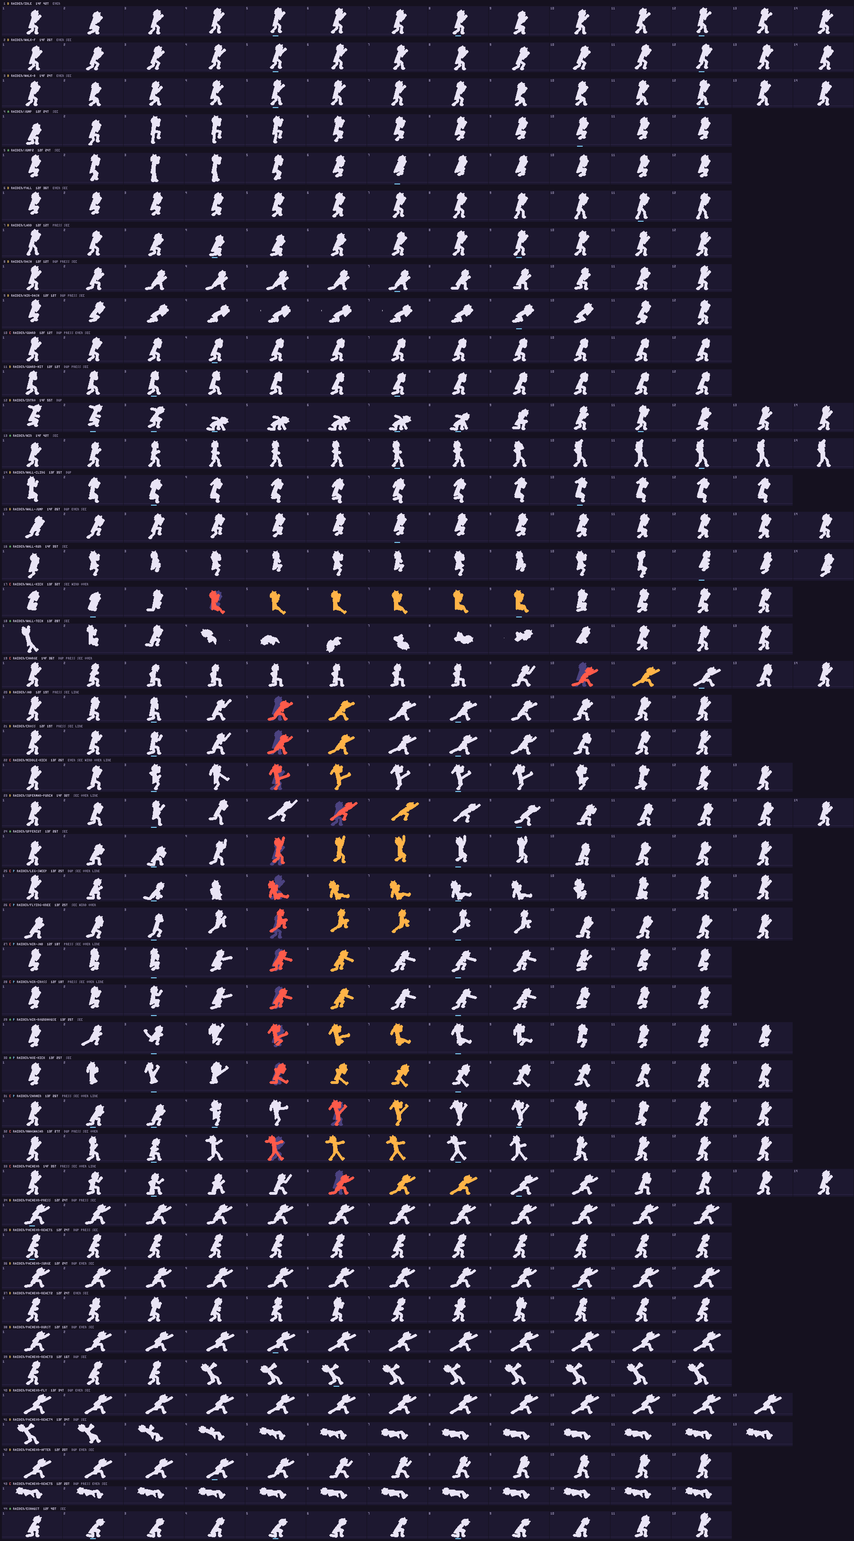
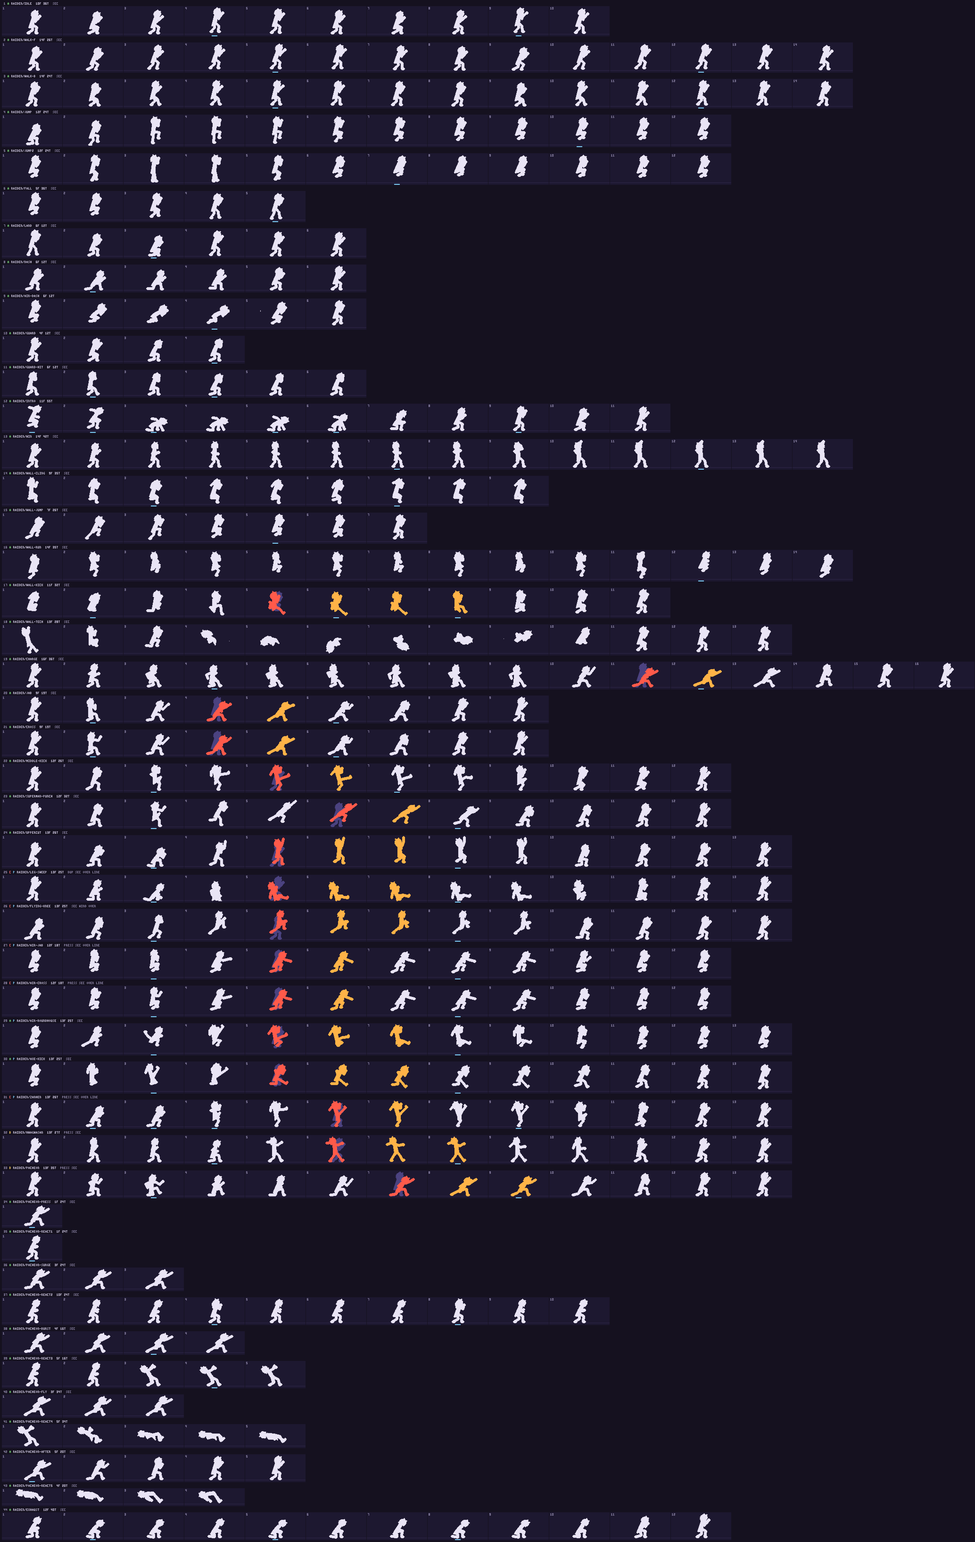
라이덴 2차 리워크 확인 자료: 점검표·실루엣 띠 다시 뽑기, 동작마다 전후 GIF(실제·0.5배속)·끝점 경로·실루엣, 네 캐릭터 비교
점검표: 라이덴 보호 목록 밖 동작은 모두 A, 화과산·파천만 B(프레임 수가 스킬 참고값보다 적다는 신호 하나). 다른 캐릭터 줄은 그대로.

Claude-Session: https://claude.ai/code/session_01Q6VeBSuE7JSjci2iMumFxL

diff --git a/docs/motions/점검표.md b/docs/motions/점검표.md
@@ -3,8 +3,8 @@
 자동 생성: `npm run motioncheck` (`tools/motioncheck.mjs`). 손으로 고치지 않는다. 사람이 바꾼 등급은 도구의 `JUDGED` 표에 이유와 함께 적고, 등급 칸에 "자동 → 판단"으로 나온다.
 실루엣 띠: `previews/motions/silhouette-<캐릭터>.png` (아래 '실루엣 띠 읽는 법').
 
-동작 220개 — A 33 · B 150 · C 37. 보호 목록 26개는 등급만 적고 고치지 않는다(1장).
-신호별 개수: 복사로 길이 채움 82 · 감기 없음 13 · 지나치기 없음 44 · 직선 궤적 25 · 일정한 간격 75 · 몸통 고정 13 · 2차 동작 없음 120 · 실루엣 겹침 3 · 12~14에 눌림 91.
+동작 220개 — A 61 · B 129 · C 30. 보호 목록 26개는 등급만 적고 고치지 않는다(1장).
+신호별 개수: 복사로 길이 채움 64 · 감기 없음 11 · 지나치기 없음 38 · 직선 궤적 20 · 일정한 간격 62 · 몸통 고정 13 · 2차 동작 없음 120 · 실루엣 겹침 3 · 12~14에 눌림 80.
 
 ## 읽는 법
 
@@ -38,40 +38,40 @@
 
 | 묶음 | 동작 수 | A | B | C | 보호 |
 | --- | --- | --- | --- | --- | --- |
-| 라이덴 | 44 | 9 | 23 | 12 | 7 |
+| 라이덴 | 44 | 37 | 2 | 5 | 7 |
 | 백은우 | 43 | 6 | 31 | 6 | 3 |
 | 에드워드 | 40 | 2 | 34 | 4 | 7 |
 | 오스카 | 40 | 3 | 32 | 5 | 9 |
 | 공통 맞는 동작 · 기본 스틱맨 · 필살기 상대 반응 | 53 | 13 | 30 | 10 | 0 |
 
 
-## 라이덴 (44개 — A 9 · B 23 · C 12)
+## 라이덴 (44개 — A 37 · B 2 · C 5)
 
 | # | 동작 | 프레임 수 / 총 틱 | 일곱 요소가 든 프레임 번호 | 문제 신호 | 등급 |
 | --- | --- | --- | --- | --- | --- |
-| 1 | `raiden/idle` 라이덴 대기<br>반복 | 14 / 42 | 해당 없음 — 공격 아님 | **일정한 간격**(앞팔꿈치 빠르기 최대/가운데 1.7배) | **B** (1점) |
-| 2 | `raiden/walk_f` 라이덴 앞 걷기<br>반복 | 14 / 26 | 해당 없음 — 공격 아님 | **일정한 간격**(앞팔꿈치 빠르기 최대/가운데 2.1배)<br>**2차 동작 없음**(머리카락 고정, 옷자락 고정) _장식 고정: 캐릭터 공통_ | **B** (1점) |
-| 3 | `raiden/walk_b` 라이덴 뒤 걷기<br>반복 | 14 / 24 | 해당 없음 — 공격 아님 | **일정한 간격**(뒷손 빠르기 최대/가운데 2.1배)<br>**2차 동작 없음**(머리카락 고정, 옷자락 고정) _장식 고정: 캐릭터 공통_ | **B** (1점) |
+| 1 | `raiden/idle` 라이덴 대기<br>반복 | 10 / 36 | 해당 없음 — 공격 아님 | **2차 동작 없음**(머리카락 고정, 옷자락 고정) _장식 고정: 캐릭터 공통_ | **A** (0점) |
+| 2 | `raiden/walk_f` 라이덴 앞 걷기<br>반복 | 14 / 26 | 해당 없음 — 공격 아님 | **2차 동작 없음**(머리카락 고정, 옷자락 고정) _장식 고정: 캐릭터 공통_ | **A** (0점) |
+| 3 | `raiden/walk_b` 라이덴 뒤 걷기<br>반복 | 14 / 24 | 해당 없음 — 공격 아님 | **2차 동작 없음**(머리카락 고정, 옷자락 고정) _장식 고정: 캐릭터 공통_ | **A** (0점) |
 | 4 | `raiden/jump` 라이덴 점프<br>이동·기본 | 12 / 24 | 해당 없음 — 공격 아님 | **2차 동작 없음**(머리카락 고정, 옷자락 고정) _장식 고정: 캐릭터 공통_ | **A** (0점) |
 | 5 | `raiden/jump2` 라이덴 2단 점프<br>이동·기본 | 12 / 24 | 해당 없음 — 공격 아님 | **2차 동작 없음**(머리카락 고정, 옷자락 고정) _장식 고정: 캐릭터 공통_ | **A** (0점) |
-| 6 | `raiden/fall` 라이덴 낙하<br>이동·기본 | 12 / 36 | 해당 없음 — 공격 아님 | **일정한 간격**(뒷무릎 빠르기 최대/가운데 2배)<br>**2차 동작 없음**(머리카락 고정, 옷자락 고정) _장식 고정: 캐릭터 공통_ | **B** (1점) |
-| 7 | `raiden/land` 라이덴 착지<br>이동·기본 | 12 / 12 | 해당 없음 — 공격 아님 | **12~14에 눌림**(12프레임이 모두 1틱)<br>**2차 동작 없음**(머리카락 고정, 옷자락 고정) _장식 고정: 캐릭터 공통_ | **B** (1점) |
-| 8 | `raiden/dash` 라이덴 지상 대시<br>이동·기본 | 12 / 12 | 해당 없음 — 공격 아님 | **복사로 길이 채움**(4=5)<br>**12~14에 눌림**(12프레임이 모두 1틱)<br>**2차 동작 없음**(머리카락 고정, 옷자락 지연 0) _장식 고정: 캐릭터 공통_ | **B** (2점) |
-| 9 | `raiden/air_dash` 라이덴 공중 대시<br>이동·기본 | 12 / 12 | 해당 없음 — 공격 아님 | **복사로 길이 채움**(5=6 6=7)<br>**12~14에 눌림**(12프레임이 모두 1틱)<br>**2차 동작 없음**(머리카락 고정, 옷자락 지연 0) _장식 고정: 캐릭터 공통_ | **B** (2점) |
-| 10 | `raiden/guard` 라이덴 방어<br>이동·기본 | 12 / 12 | 해당 없음 — 공격 아님 | **복사로 길이 채움**(5=6 6=7 7=8 8=9 9=10 10=11)<br>**12~14에 눌림**(키 3개를 12프레임으로 늘림, 12프레임이 모두 1틱)<br>**일정한 간격**(뒷팔꿈치 빠르기 최대/가운데 1.6배)<br>**2차 동작 없음**(머리카락 고정, 옷자락 고정) _장식 고정: 캐릭터 공통_ | **C** (4점) |
-| 11 | `raiden/guard_hit` 라이덴 방어 막힘<br>이동·기본 | 12 / 12 | 해당 없음 — 공격 아님 | **복사로 길이 채움**(8=9 9=10 10=11)<br>**12~14에 눌림**(12프레임이 모두 1틱)<br>**2차 동작 없음**(머리카락 고정, 옷자락 고정) _장식 고정: 캐릭터 공통_ | **B** (2점) |
-| 12 | `raiden/intro` 라이덴 등장<br>연출 | 14 / 55 | 해당 없음 — 공격 아님 | **복사로 길이 채움**(5=6) | **B** (1점) |
+| 6 | `raiden/fall` 라이덴 낙하<br>이동·기본 | 5 / 36 | 해당 없음 — 공격 아님 | **2차 동작 없음**(머리카락 고정, 옷자락 고정) _장식 고정: 캐릭터 공통_ | **A** (0점) |
+| 7 | `raiden/land` 라이덴 착지<br>이동·기본 | 6 / 12 | 해당 없음 — 공격 아님 | **2차 동작 없음**(머리카락 고정, 옷자락 고정) _장식 고정: 캐릭터 공통_ | **A** (0점) |
+| 8 | `raiden/dash` 라이덴 지상 대시<br>이동·기본 | 6 / 12 | 해당 없음 — 공격 아님 | **2차 동작 없음**(머리카락 고정, 옷자락 고정) _장식 고정: 캐릭터 공통_ | **A** (0점) |
+| 9 | `raiden/air_dash` 라이덴 공중 대시<br>이동·기본 | 6 / 12 | 해당 없음 — 공격 아님 | 없음 | **A** (0점) |
+| 10 | `raiden/guard` 라이덴 방어<br>이동·기본 | 4 / 12 | 해당 없음 — 공격 아님 | **2차 동작 없음**(머리카락 고정, 옷자락 고정) _장식 고정: 캐릭터 공통_ | **A** (0점) |
+| 11 | `raiden/guard_hit` 라이덴 방어 막힘<br>이동·기본 | 6 / 12 | 해당 없음 — 공격 아님 | **2차 동작 없음**(머리카락 고정, 옷자락 고정) _장식 고정: 캐릭터 공통_ | **A** (0점) |
+| 12 | `raiden/intro` 라이덴 등장<br>연출 | 11 / 55 | 해당 없음 — 공격 아님 | 없음 | **A** (0점) |
 | 13 | `raiden/win` 라이덴 승리<br>연출 | 14 / 42 | 해당 없음 — 공격 아님 | **2차 동작 없음**(머리카락 고정, 옷자락 고정) _장식 고정: 캐릭터 공통_ | **A** (0점) |
-| 14 | `raiden/wall_cling` 라이덴 벽 붙기<br>이동·기본 | 13 / 35 | 해당 없음 — 공격 아님 | **복사로 길이 채움**(4=5 6=7) | **B** (1점) |
-| 15 | `raiden/wall_jump` 라이덴 벽 점프<br>이동·기본 | 14 / 26 | 해당 없음 — 공격 아님 | **복사로 길이 채움**(12=13)<br>**일정한 간격**(뒷발 빠르기 최대/가운데 1.6배)<br>**2차 동작 없음**(머리카락 고정, 옷자락 고정) _장식 고정: 캐릭터 공통_ | **B** (2점) |
+| 14 | `raiden/wall_cling` 라이덴 벽 붙기<br>이동·기본 | 9 / 35 | 해당 없음 — 공격 아님 | **2차 동작 없음**(머리카락 고정, 옷자락 고정) _장식 고정: 캐릭터 공통_ | **A** (0점) |
+| 15 | `raiden/wall_jump` 라이덴 벽 점프<br>이동·기본 | 7 / 26 | 해당 없음 — 공격 아님 | **2차 동작 없음**(머리카락 고정, 옷자락 고정) _장식 고정: 캐릭터 공통_ | **A** (0점) |
 | 16 | `raiden/wall_run` 라이덴 벽 달리기<br>이동·기본 | 14 / 35 | 해당 없음 — 공격 아님 | **2차 동작 없음**(머리카락 고정, 옷자락 고정) _장식 고정: 캐릭터 공통_ | **A** (0점) |
-| 17 | `raiden/wall_kick` 라이덴 벽 박차기 공격<br>일반 평타 · raiden.wallKick · 끝: 앞발 | 13 / 32 | ①– ②– ③– ④– ⑤4(81° 꺾임, 겹침 52%) ⑥– ⑦10~13 (끝이 첫 자세와 18px) | **2차 동작 없음**(머리카락 고정, 옷자락 지연 0) _장식 고정: 캐릭터 공통_<br>**감기 없음**(1~3번에 뒤로 1.4px (버틴 감기 1.4px))<br>**지나치기 없음**(5번 +0.8px) | **C** (4점) |
+| 17 | `raiden/wall_kick` 라이덴 벽 박차기 공격<br>일반 평타 · raiden.wallKick · 끝: 앞발 | 11 / 32 | ①– ②– ③– ④– ⑤5(4°, 겹침 47%) ⑥6(+3.3/−1.9) ⑦9~11 (끝이 첫 자세와 18px) | **2차 동작 없음**(머리카락 지연 0, 옷자락 지연 0) _장식 고정: 캐릭터 공통_ | **A** (0점) |
 | 18 | `raiden/wall_tech` 라이덴 벽 낙법<br>이동·기본 | 13 / 28 | 해당 없음 — 공격 아님 | **2차 동작 없음**(머리카락 지연 0, 옷자락 지연 0) _장식 고정: 캐릭터 공통_ | **A** (0점) |
-| 19 | `raiden/charge` 라이덴 차지 투전승불<br>차지·스킬 · raiden.charge · 끝: 뒷손 | 14 / 36 | ①8→10(1→14px) ②10(+7), 높이 6 ③– ④– ⑤10(9°, 겹침 18%) ⑥– ⑦12~14 | **복사로 길이 채움**(5=6 6=7 7=8)<br>**12~14에 눌림**(참고 16~30보다 적음)<br>**2차 동작 없음**(머리카락 지연 0, 옷자락 지연 0) _장식 고정: 캐릭터 공통_<br>**지나치기 없음**(11번 +2px) | **C** (4점) |
-| 20 | `raiden/jab` 라이덴 1타 잽<br>빠른 타격 · raiden.atk1 · 끝: 앞손 | 12 / 19 | ①3→5(0→14px) ②3(-3)→5(+7), 높이 6 ③– ④– ⑤5(5°, 겹침 24%) ⑥7(+3/−0) ⑦7~12 | **12~14에 눌림**(참고 6~10보다 많음)<br>**2차 동작 없음**(머리카락 고정, 옷자락 지연 0) _장식 고정: 캐릭터 공통_<br>**직선 궤적**(3~6번 휨 0.8px / 31.1px) | **B** (2점) |
-| 21 | `raiden/cross` 라이덴 2타 크로스<br>빠른 타격 · raiden.atk2 · 끝: 뒷손 | 12 / 19 | ①3→5(0→13px) ②3(-2)→5(+7), 높이 6 ③– ④– ⑤5(9°, 겹침 22%) ⑥7(+4.2/−0) ⑦7~12 | **12~14에 눌림**(참고 6~10보다 많음)<br>**2차 동작 없음**(머리카락 고정, 옷자락 지연 0) _장식 고정: 캐릭터 공통_<br>**직선 궤적**(3~6번 휨 1.7px / 34px) | **B** (2점) |
-| 22 | `raiden/middle_kick` 라이덴 3타 미들킥<br>일반 평타 · raiden.atk3 · 끝: 뒷발 | 13 / 26 | ①– ②5(+5), 높이 3 ③– ④– ⑤5(29° 꺾임, 겹침 35%) ⑥– ⑦7~13 | **일정한 간격**(끝 빠르기 최대/가운데 1.7배)<br>**2차 동작 없음**(머리카락 고정, 옷자락 지연 0) _장식 고정: 캐릭터 공통_<br>**감기 없음**(1~4번에 뒤로 1.3px (버틴 감기 0.4px))<br>**지나치기 없음**(6번 +0.4px)<br>**직선 궤적**(2~6번 휨 3.4px / 47.2px) | **C** (6점) |
-| 23 | `raiden/superman_punch` 라이덴 4타 슈퍼맨 펀치<br>일반 평타 · raiden.atk4 · 끝: 뒷손 | 14 / 32 | ①3→6(-1→18px) ②6(+9), 높이 11 ③– ④3→5 ⑤6(6°, 겹침 15%) ⑥– ⑦8~14 | **2차 동작 없음**(머리카락 지연 0, 옷자락 지연 0) _장식 고정: 캐릭터 공통_<br>**지나치기 없음**(7번 +0.7px)<br>**직선 궤적**(3~7번 휨 1.3px / 43px) | **B** (3점) |
+| 19 | `raiden/charge` 라이덴 차지 투전승불<br>차지·스킬 · raiden.charge · 끝: 뒷손 | 16 / 36 | ①9→11(-5→14px) ②4(-5)→11(+11), 높이 7 ③– ④– ⑤11(9°, 겹침 18%) ⑥12(+5.1/−4.1) ⑦13~16 | **2차 동작 없음**(머리카락 지연 0, 옷자락 지연 0) _장식 고정: 캐릭터 공통_ | **A** (0점) |
+| 20 | `raiden/jab` 라이덴 1타 잽<br>빠른 타격 · raiden.atk1 · 끝: 앞손 | 9 / 19 | ①2→4(-5→14px) ②2(-4)→4(+8), 높이 6 ③– ④– ⑤4(5°, 겹침 24%) ⑥5(+2.9/−4.1) ⑦6~9 | **2차 동작 없음**(머리카락 지연 0, 옷자락 지연 0) _장식 고정: 캐릭터 공통_ | **A** (0점) |
+| 21 | `raiden/cross` 라이덴 2타 크로스<br>빠른 타격 · raiden.atk2 · 끝: 뒷손 | 9 / 19 | ①2→4(-5→13px) ②2(-4)→4(+9), 높이 6 ③– ④– ⑤4(9°, 겹침 22%) ⑥5(+3.2/−5.1) ⑦6~9 | **2차 동작 없음**(머리카락 고정, 옷자락 지연 0) _장식 고정: 캐릭터 공통_ | **A** (0점) |
+| 22 | `raiden/middle_kick` 라이덴 3타 미들킥<br>일반 평타 · raiden.atk3 · 끝: 뒷발 | 12 / 26 | ①– ②5(+6), 높이 3 ③– ④– ⑤5(37° 꺾임, 겹침 40%) ⑥6(+3.7/−1.9) ⑦7~12 | **2차 동작 없음**(머리카락 고정, 옷자락 지연 0) _장식 고정: 캐릭터 공통_ | **A** (0점) |
+| 23 | `raiden/superman_punch` 라이덴 4타 슈퍼맨 펀치<br>일반 평타 · raiden.atk4 · 끝: 뒷손 | 12 / 32 | ①3→6(-5→18px) ②6(+9), 높이 11 ③– ④– ⑤6(6°, 겹침 15%) ⑥7(+6.1/−1.9) ⑦8~12 | **2차 동작 없음**(머리카락 지연 0, 옷자락 지연 0) _장식 고정: 캐릭터 공통_ | **A** (0점) |
 | 24 | `raiden/uppercut` 라이덴 띄우기 어퍼컷<br>일반 평타 · raiden.launcher · 끝: 뒷손 | 13 / 26 | ①– ②5(+6), 높이 16 ③– ④– ⑤5(6°, 겹침 38%) ⑥7(+3.9/−0) ⑦8~13 | **2차 동작 없음**(머리카락 지연 0, 옷자락 지연 0) _장식 고정: 캐릭터 공통_ | **A** (0점) |
 | 25 | `raiden/leg_sweep` 라이덴 쓸기 다리 걸기<br>일반 평타 · raiden.sweep · 끝: 뒷발 | 13 / 25 | ①– ②– ③– ④– ⑤5(108° 꺾임, 겹침 25%) ⑥– ⑦8~13 | **복사로 길이 채움**(5=6)<br>**2차 동작 없음**(머리카락 고정, 옷자락 지연 0) _장식 고정: 캐릭터 공통_<br>**지나치기 없음**(6번 -0.1px)<br>**직선 궤적**(3~6번 휨 1px / 45px) | **C** · 보호 (4점) |
 | 26 | `raiden/flying_knee` 라이덴 대시 공격 플라잉 니<br>일반 평타 · raiden.dashAttack · 끝: 앞무릎 | 13 / 25 | ①– ②5(+5), 높이 14 ③– ④– ⑤5(10°, 겹침 33%) ⑥– ⑦8~13 | **2차 동작 없음**(머리카락 고정, 옷자락 지연 0) _장식 고정: 캐릭터 공통_<br>**감기 없음**(1~4번에 뒤로 1px (버틴 감기 1px))<br>**지나치기 없음**(6번 +0.6px) | **C** · 보호 (4점) |
@@ -80,18 +80,18 @@
 | 29 | `raiden/air_roundhouse` 라이덴 공중 3타 돌려차기<br>일반 평타 · raiden.air3 · 끝: 뒷발 | 13 / 25 | ①– ②3(-2)→5(+4), 높이 1 ③– ④– ⑤5(48° 꺾임, 겹침 41%) ⑥7(+13.4/−0) ⑦8~13 | **2차 동작 없음**(머리카락 고정, 옷자락 지연 0) _장식 고정: 캐릭터 공통_ | **A** · 보호 (0점) |
 | 30 | `raiden/axe_kick` 라이덴 내려찍기 도끼차기<br>일반 평타 · raiden.slam · 끝: 앞발 | 13 / 25 | ①3→5(-5→7px) ②3(-2)→5(+4), 높이 2 ③– ④– ⑤5(45° 꺾임, 겹침 50%) ⑥7(+6.4/−0) ⑦8~13 (끝이 첫 자세와 8px) | **2차 동작 없음**(머리카락 지연 0, 옷자락 지연 0) _장식 고정: 캐릭터 공통_ | **A** · 보호 (0점) |
 | 31 | `raiden/zanhen` 라이덴 스킬 1 잔흔<br>차지·스킬 · raiden.skill1 · 끝: 뒷발 | 13 / 26 | ①– ②6(+4), 높이 8 ③– ④– ⑤6(16° 꺾임, 겹침 42%) ⑥– ⑦8~13 | **12~14에 눌림**(참고 16~30보다 적음)<br>**2차 동작 없음**(머리카락 지연 0, 옷자락 지연 0) _장식 고정: 캐릭터 공통_<br>**지나치기 없음**(7번 +1.4px)<br>**직선 궤적**(3~7번 휨 3.2px / 51.7px) | **C** · 보호 (4점) |
-| 32 | `raiden/hwagwasan` 라이덴 스킬 2 화과산<br>차지·스킬 · raiden.skill2 · 끝: 앞발 | 13 / 27 | ①– ②3(-2)→5(+1), 높이 6 ③– ④– ⑤5(57° 꺾임, 겹침 30%) ⑥– ⑦8~13 | **복사로 길이 채움**(11=12)<br>**12~14에 눌림**(참고 16~30보다 적음)<br>**2차 동작 없음**(머리카락 지연 0, 옷자락 지연 0) _장식 고정: 캐릭터 공통_<br>**지나치기 없음**(6번 +0px) | **C** (4점) |
-| 33 | `raiden/pacheon` 라이덴 필살기 파천<br>차지·스킬 · raiden.super · 끝: 뒷손 | 14 / 35 | ①3→6(1→14px) ②3(-2)→6(+7), 높이 7 ③– ④– ⑤6(9°, 겹침 25%) ⑥8(+2.7/−0) ⑦9~14 | **12~14에 눌림**(참고 16~30보다 적음)<br>**2차 동작 없음**(머리카락 고정, 옷자락 지연 0) _장식 고정: 캐릭터 공통_<br>**지나치기 없음**(7번 +1px)<br>**직선 궤적**(3~7번 휨 3.2px / 44.8px) | **C** (4점) |
-| 34 | `raiden/pacheon_press` 라이덴 파천 연출 1 (붕권을 대고 정적)<br>연출 | 12 / 24 | 해당 없음 — 공격 아님 | **복사로 길이 채움**(2=3 3=4 4=5 5=6 6=7 7=8 8=9 9=10 10=11)<br>**12~14에 눌림**(키 2개를 12프레임으로 늘림)<br>**2차 동작 없음**(머리카락 고정, 옷자락 고정) _장식 고정: 캐릭터 공통_ | **B** (3점) |
-| 35 | `raiden/pacheon_react1` 파천 상대 반응 1 (굳음)<br>연출 | 12 / 24 | 해당 없음 — 공격 아님 | **복사로 길이 채움**(2=3 3=4 4=5 5=6 6=7 7=8 8=9 9=10 10=11)<br>**12~14에 눌림**(키 2개를 12프레임으로 늘림)<br>**2차 동작 없음**(머리카락 고정, 옷자락 고정) _장식 고정: 캐릭터 공통_ | **B** (3점) |
-| 36 | `raiden/pacheon_surge` 라이덴 파천 연출 2 (몸 안으로)<br>연출 | 12 / 24 | 해당 없음 — 공격 아님 | **복사로 길이 채움**(2=3 3=4 4=5 5=6 6=7 7=8 8=9)<br>**일정한 간격**(목 빠르기 최대/가운데 1배)<br>**2차 동작 없음**(머리카락 고정, 옷자락 고정) _장식 고정: 캐릭터 공통_ | **B** (2점) |
-| 37 | `raiden/pacheon_react2` 파천 상대 반응 2 (몸 안의 전격에 경련)<br>연출 | 12 / 24 | 해당 없음 — 공격 아님 | **일정한 간격**(뒷팔꿈치 빠르기 최대/가운데 2배)<br>**2차 동작 없음**(머리카락 지연 0, 옷자락 고정) _장식 고정: 캐릭터 공통_ | **B** (1점) |
-| 38 | `raiden/pacheon_burst` 라이덴 파천 연출 3 (밀어 넣기)<br>연출 | 12 / 16 | 해당 없음 — 공격 아님 | **복사로 길이 채움**(3=4 6=7 7=8 8=9 10=11)<br>**일정한 간격**(뒷팔꿈치 빠르기 최대/가운데 1.5배)<br>**2차 동작 없음**(머리카락 고정, 옷자락 고정) _장식 고정: 캐릭터 공통_ | **B** (2점) |
-| 39 | `raiden/pacheon_react3` 파천 상대 반응 3 (등 뒤로 터짐)<br>연출 | 12 / 16 | 해당 없음 — 공격 아님 | **복사로 길이 채움**(9=10)<br>**2차 동작 없음**(머리카락 지연 0, 옷자락 지연 0) _장식 고정: 캐릭터 공통_ | **B** (1점) |
-| 40 | `raiden/pacheon_fly` 라이덴 파천 연출 4 (주먹을 뻗은 채)<br>연출 | 13 / 34 | 해당 없음 — 공격 아님 | **복사로 길이 채움**(2=3 3=4 4=5 5=6 6=7 7=8 8=9 9=10 10=11 11=12)<br>**일정한 간격**(뒷팔꿈치 빠르기 최대/가운데 1.5배)<br>**2차 동작 없음**(머리카락 고정, 옷자락 고정) _장식 고정: 캐릭터 공통_ | **B** (2점) |
-| 41 | `raiden/pacheon_react4` 파천 상대 반응 4 (날아감)<br>연출 | 13 / 34 | 해당 없음 — 공격 아님 | **복사로 길이 채움**(7=8 8=9 9=10)<br>**2차 동작 없음**(머리카락 고정, 옷자락 지연 0) _장식 고정: 캐릭터 공통_ | **B** (1점) |
-| 42 | `raiden/pacheon_after` 라이덴 파천 연출 5 (잔심)<br>연출 | 12 / 20 | 해당 없음 — 공격 아님 | **복사로 길이 채움**(2=3)<br>**일정한 간격**(뒷손 빠르기 최대/가운데 1.6배)<br>**2차 동작 없음**(머리카락 고정, 옷자락 고정) _장식 고정: 캐릭터 공통_ | **B** (2점) |
-| 43 | `raiden/pacheon_react5` 파천 상대 반응 5 (멀리 떨어짐)<br>연출 | 12 / 20 | 해당 없음 — 공격 아님 | **복사로 길이 채움**(2=3 4=5 5=6 6=7 7=8 8=9)<br>**12~14에 눌림**(키 3개를 12프레임으로 늘림)<br>**일정한 간격**(뒷손 빠르기 최대/가운데 1.7배)<br>**2차 동작 없음**(머리카락 고정, 옷자락 고정) _장식 고정: 캐릭터 공통_ | **C** (4점) |
+| 32 | `raiden/hwagwasan` 라이덴 스킬 2 화과산<br>차지·스킬 · raiden.skill2 · 끝: 앞손 | 13 / 27 | ①– ②4(-2)→6(+1), 높이 7 ③– ④– ⑤6(47° 꺾임, 겹침 30%) ⑥7(+3/−2) ⑦9~13 | **12~14에 눌림**(참고 16~30보다 적음)<br>**2차 동작 없음**(머리카락 지연 0, 옷자락 지연 0) _장식 고정: 캐릭터 공통_ | **B** (1점) |
+| 33 | `raiden/pacheon` 라이덴 필살기 파천<br>차지·스킬 · raiden.super · 끝: 뒷손 | 13 / 35 | ①3→7(-5→14px) ②3(-4)→7(+9), 높이 7 ③– ④– ⑤7(9°, 겹침 25%) ⑥8(+2.8/−2.8) ⑦10~13 | **12~14에 눌림**(참고 16~30보다 적음)<br>**2차 동작 없음**(머리카락 고정, 옷자락 지연 0) _장식 고정: 캐릭터 공통_ | **B** (1점) |
+| 34 | `raiden/pacheon_press` 라이덴 파천 연출 1 (붕권을 대고 정적)<br>연출 | 1 / 24 | 해당 없음 — 공격 아님 | **2차 동작 없음**(머리카락 고정, 옷자락 고정) _장식 고정: 캐릭터 공통_ | **A** (0점) |
+| 35 | `raiden/pacheon_react1` 파천 상대 반응 1 (굳음)<br>연출 | 1 / 24 | 해당 없음 — 공격 아님 | **2차 동작 없음**(머리카락 고정, 옷자락 고정) _장식 고정: 캐릭터 공통_ | **A** (0점) |
+| 36 | `raiden/pacheon_surge` 라이덴 파천 연출 2 (몸 안으로)<br>연출 | 3 / 24 | 해당 없음 — 공격 아님 | **2차 동작 없음**(머리카락 고정, 옷자락 고정) _장식 고정: 캐릭터 공통_ | **A** (0점) |
+| 37 | `raiden/pacheon_react2` 파천 상대 반응 2 (몸 안의 전격에 경련)<br>연출 | 10 / 24 | 해당 없음 — 공격 아님 | **2차 동작 없음**(머리카락 지연 0, 옷자락 고정) _장식 고정: 캐릭터 공통_ | **A** (0점) |
+| 38 | `raiden/pacheon_burst` 라이덴 파천 연출 3 (밀어 넣기)<br>연출 | 4 / 16 | 해당 없음 — 공격 아님 | **2차 동작 없음**(머리카락 고정, 옷자락 고정) _장식 고정: 캐릭터 공통_ | **A** (0점) |
+| 39 | `raiden/pacheon_react3` 파천 상대 반응 3 (등 뒤로 터짐)<br>연출 | 5 / 16 | 해당 없음 — 공격 아님 | **2차 동작 없음**(머리카락 지연 0, 옷자락 지연 0) _장식 고정: 캐릭터 공통_ | **A** (0점) |
+| 40 | `raiden/pacheon_fly` 라이덴 파천 연출 4 (주먹을 뻗은 채)<br>연출 | 3 / 34 | 해당 없음 — 공격 아님 | **2차 동작 없음**(머리카락 고정, 옷자락 고정) _장식 고정: 캐릭터 공통_ | **A** (0점) |
+| 41 | `raiden/pacheon_react4` 파천 상대 반응 4 (날아감)<br>연출 | 5 / 34 | 해당 없음 — 공격 아님 | 없음 | **A** (0점) |
+| 42 | `raiden/pacheon_after` 라이덴 파천 연출 5 (잔심)<br>연출 | 5 / 20 | 해당 없음 — 공격 아님 | **2차 동작 없음**(머리카락 고정, 옷자락 고정) _장식 고정: 캐릭터 공통_ | **A** (0점) |
+| 43 | `raiden/pacheon_react5` 파천 상대 반응 5 (멀리 떨어짐)<br>연출 | 4 / 20 | 해당 없음 — 공격 아님 | **2차 동작 없음**(머리카락 고정, 옷자락 고정) _장식 고정: 캐릭터 공통_ | **A** (0점) |
 | 44 | `raiden/exhaust` 라이덴 탈진 (투전승불 4단계 뒤)<br>이동·기본 | 12 / 40 | 해당 없음 — 공격 아님 | **2차 동작 없음**(머리카락 지연 0, 옷자락 지연 0) _장식 고정: 캐릭터 공통_ | **A** (0점) |
 
 ## 백은우 (43개 — A 6 · B 31 · C 6)
